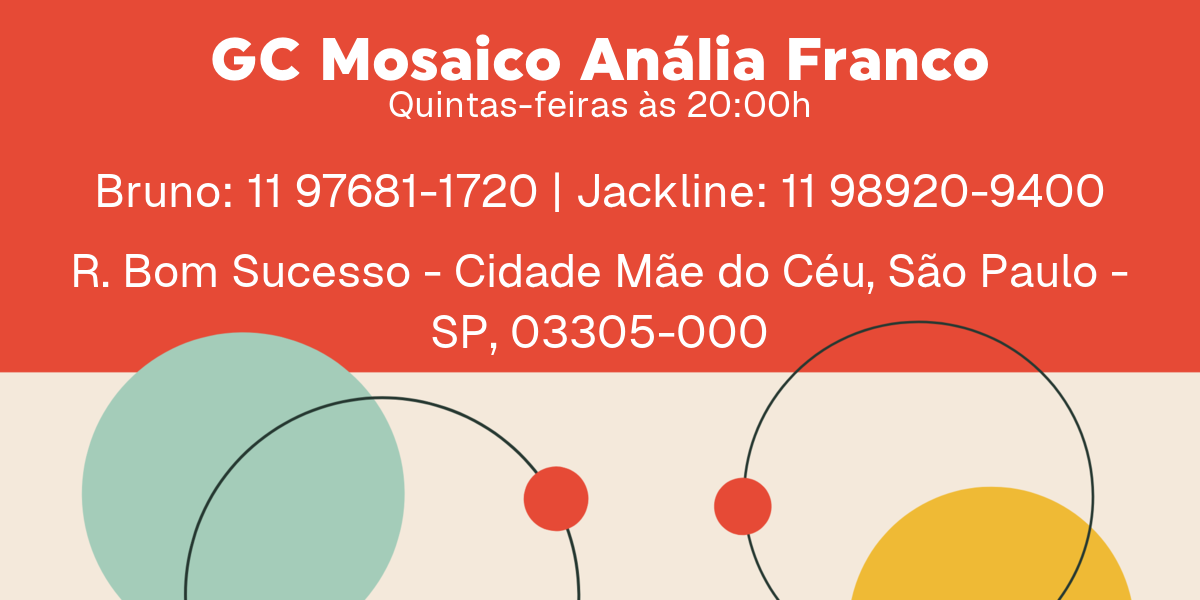
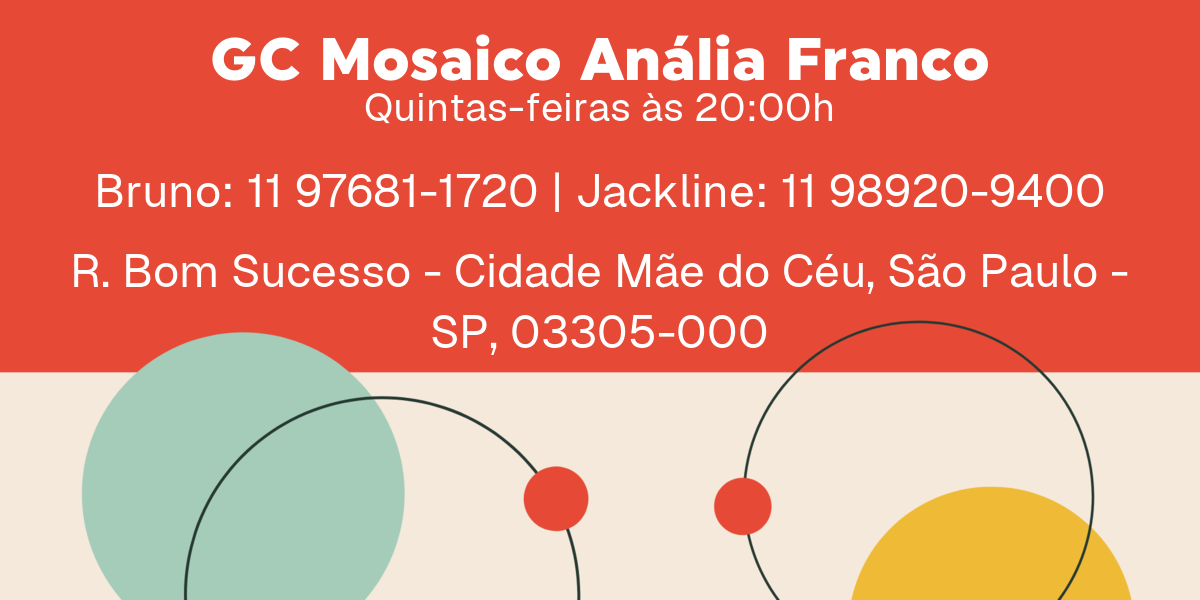
ajuste no tamanho da fonte das imagens OpenGraph e atualização das imagens geradas

Changed region(s): [[0.3083, 0.15, 0.7092, 0.21]]

diff --git a/scripts/create-opengraph-images-preview.js b/scripts/create-opengraph-images-preview.js
@@ -43,7 +43,7 @@ function createImage(gc, filename) {
       `magick ${inputImage}`,
       '-resize 1200',
       text(gcFormater.title(gc), 30, 60, FONT_UNIFORM),
-      text(gcFormater.schedulesInline(gc), 80, 36),
+      text(gcFormater.schedulesInline(gc), 80, 40),
       text(gcFormater.contactsInline(gc), 160),
       text(gc.address.text, 240),
       outputPath,
